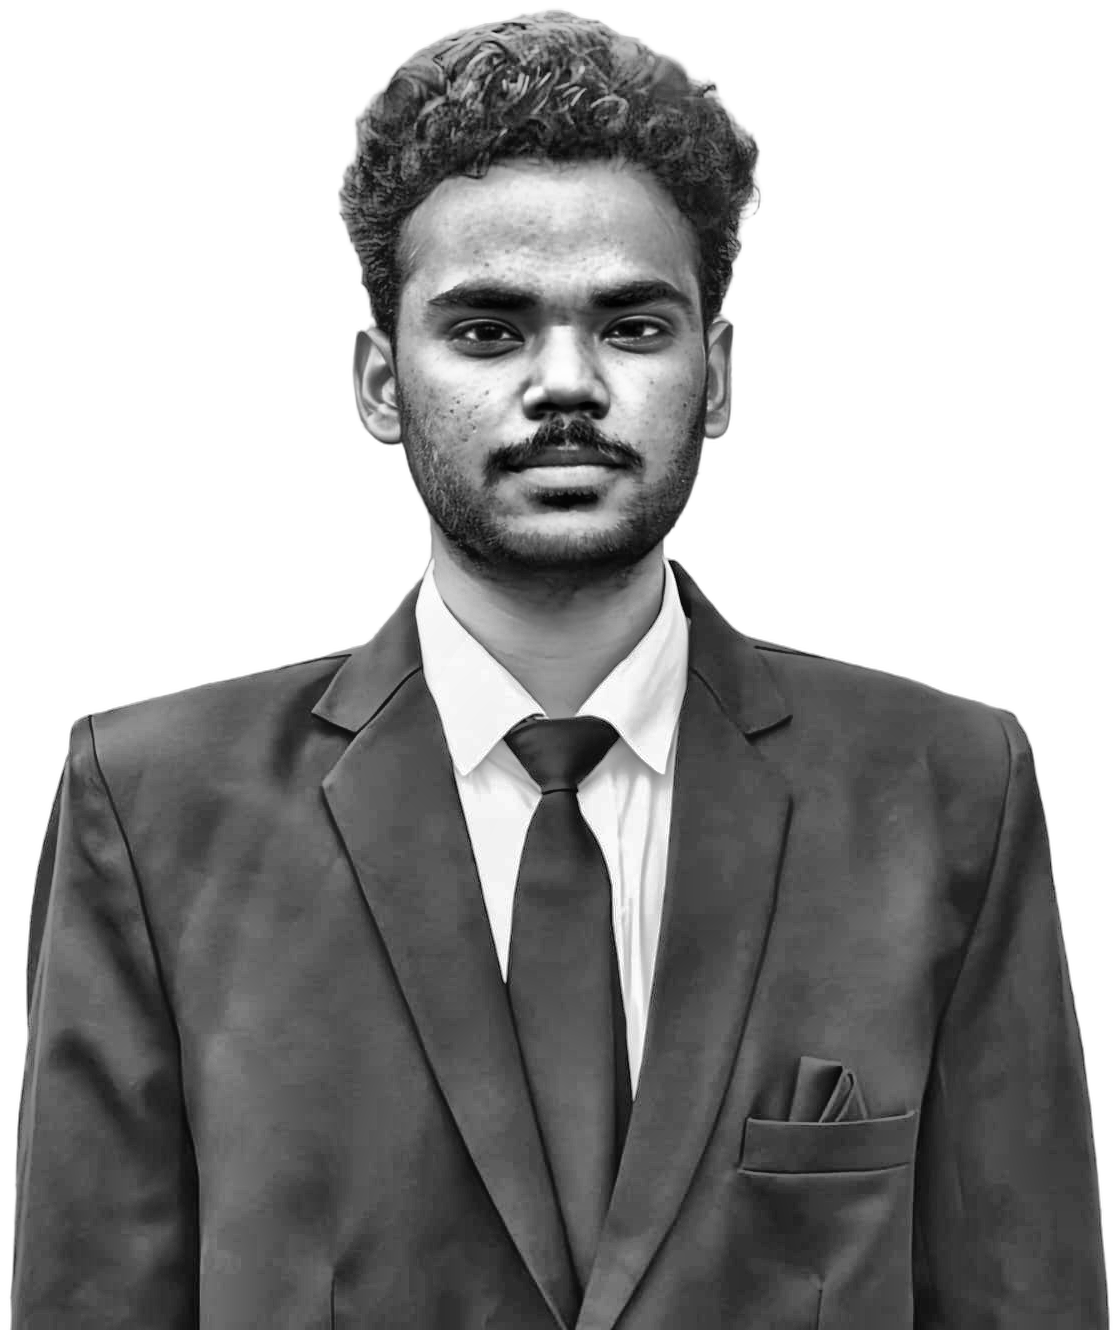
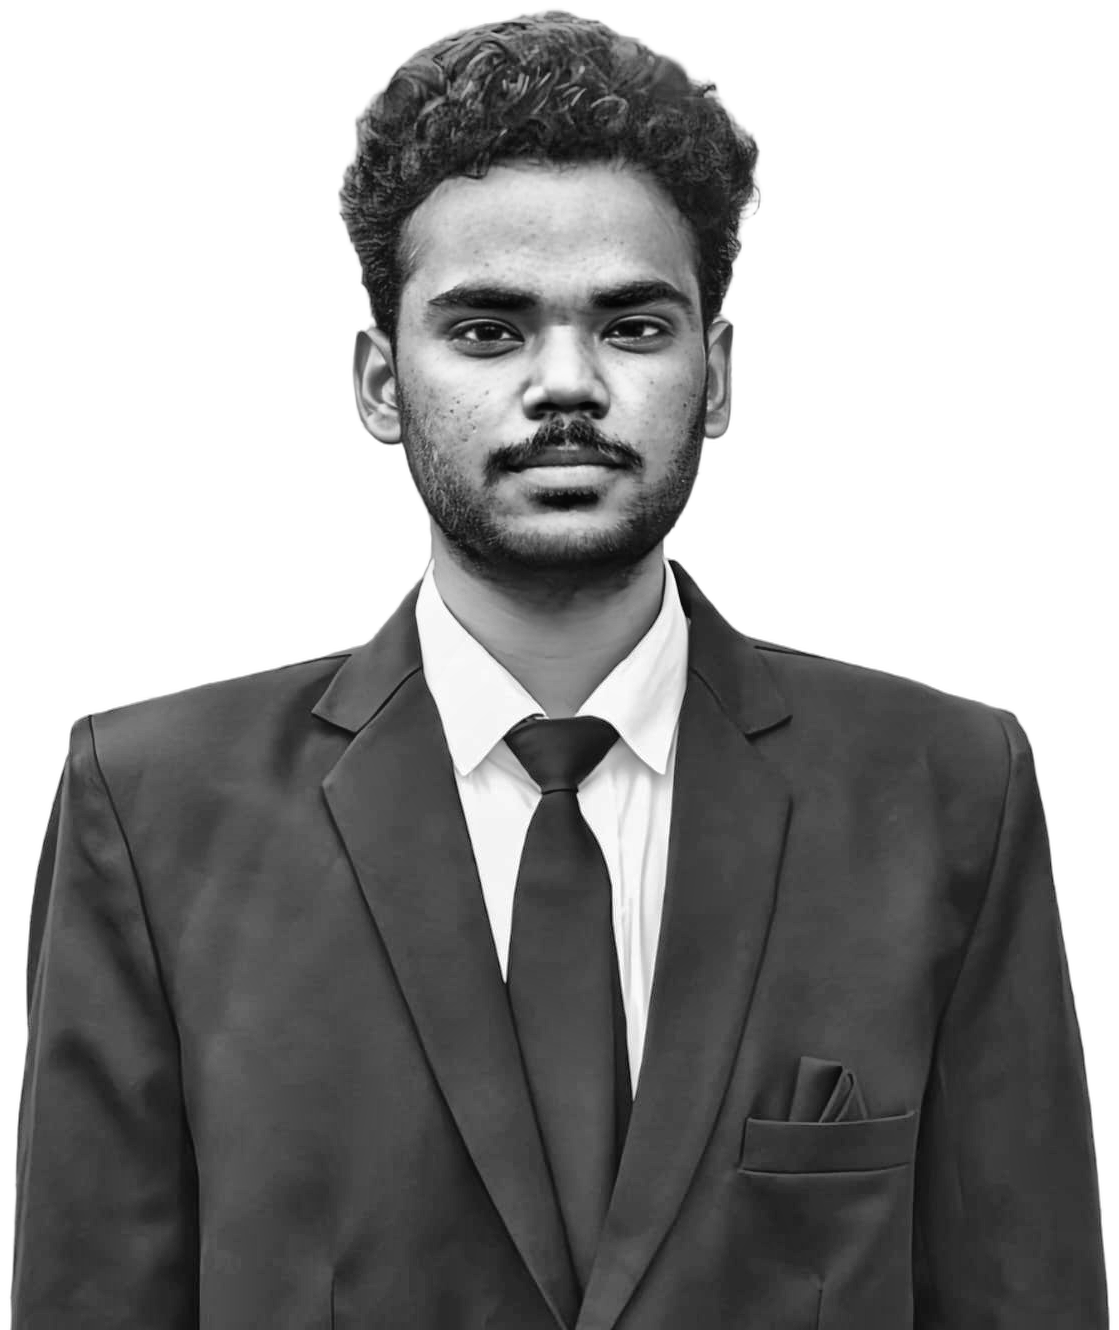
Soften portrait contrast

diff --git a/scripts/prep_photo.py b/scripts/prep_photo.py
@@ -35,7 +35,7 @@ def main(src: str, out: str | None = None) -> None:
     alpha = alpha[y0:y1, x0:x1]
 
     gray = cv2.cvtColor(rgba[..., :3], cv2.COLOR_RGB2GRAY)
-    clahe = cv2.createCLAHE(clipLimit=3.0, tileGridSize=(8, 8))
+    clahe = cv2.createCLAHE(clipLimit=1.5, tileGridSize=(8, 8))
     gray = clahe.apply(gray).astype(np.float32)
 
     comp = gray * alpha + 255.0 * (1.0 - alpha)      # background -> white
